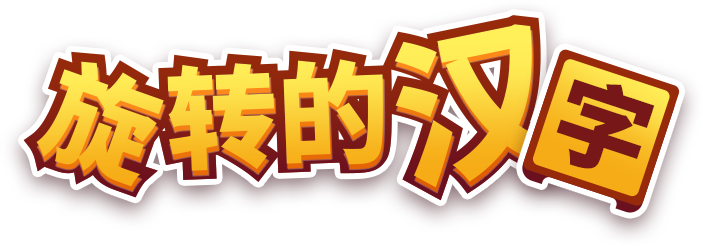
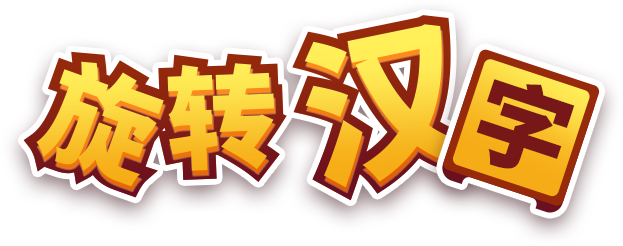
资源替换

diff --git a/assets/scripts/Result.ts b/assets/scripts/Result.ts
@@ -57,6 +57,8 @@ export default class Result extends cc.Component {
         this.hideAllDialog();
         this.playShow(this.upLevel);
         this.playLihua();
+
+        this.scheduleOnce(this.clickStartXl, 2);
     }
 
     public showAllWin(integral: number) {
@@ -149,7 +151,8 @@ export default class Result extends cc.Component {
 
     /** 点击开始游戏按钮 */
     private clickStartGameBtn() {
-        this.showUpLevel();
+        // this.showUpLevel();
+        this.clickStartXl();
     }
 
     /** 点击再次练习按钮 */
